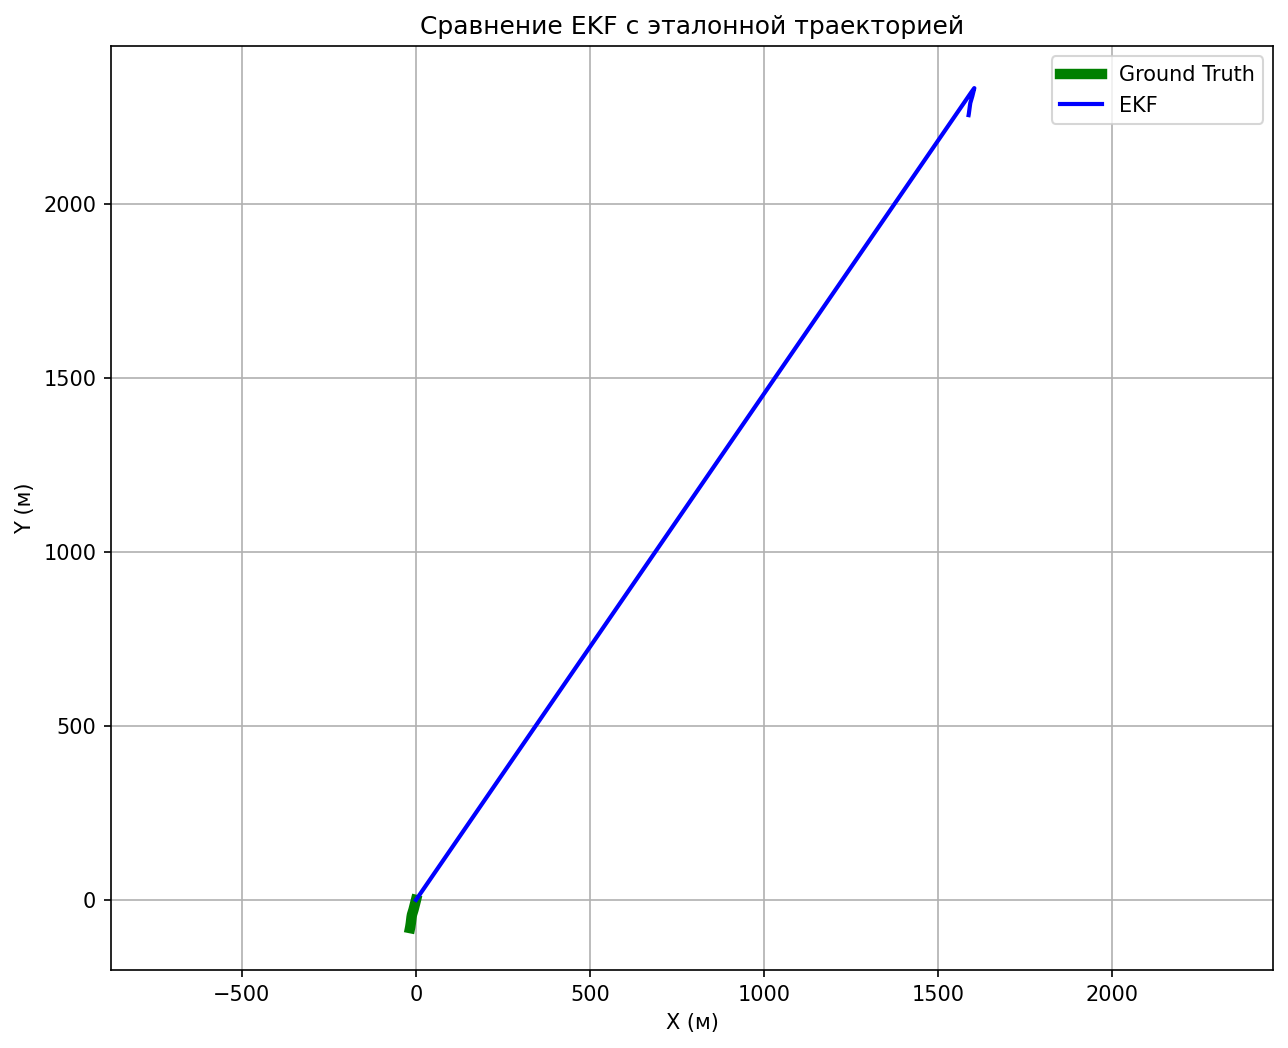
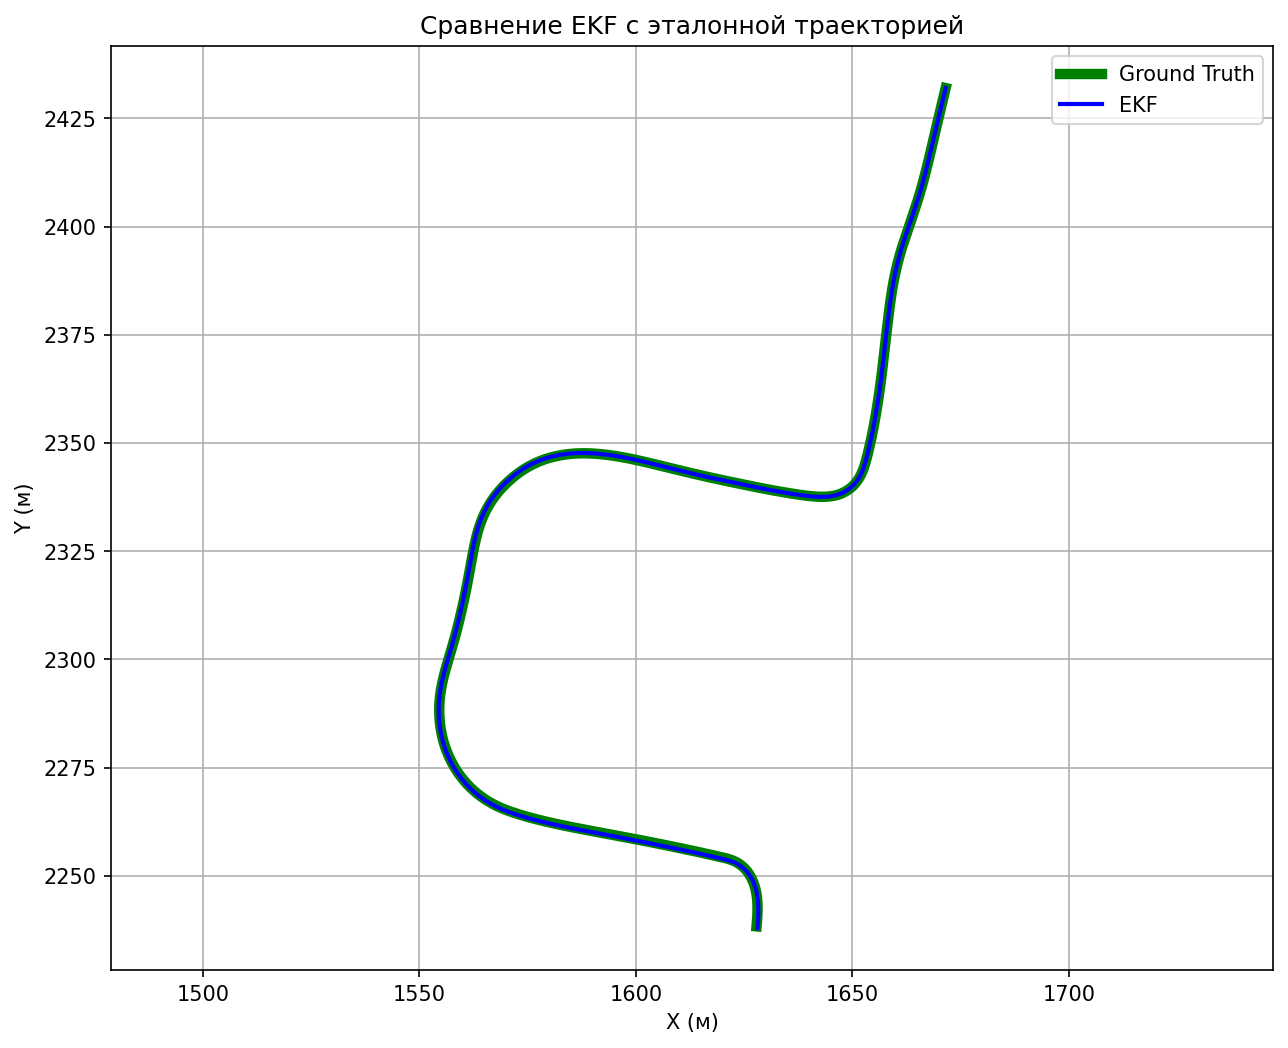
fix ekf; add bag messages sorting script

diff --git a/data/ford_data_adapter.py b/data/ford_data_adapter.py
@@ -12,22 +12,31 @@ def get_u(vx, vy, omega_z, dt):
 class FordDataAdapter:
     def __init__(self, bag_path: Path):
         self.bag_path = Path(bag_path)
-        self.typestore = get_typestore(Stores.LATEST)
+        self.typestore = get_typestore(Stores.ROS1_NOETIC)
         self.last_vx = None
         self.last_vy = None
         self.last_ts = None
 
     def __iter__(self):
         with Reader(self.bag_path) as reader:
+            v_topic = "/velocity_raw"
+            imu_topic = "/imu"
+            raw_pose_topic = "/pose_raw"
+            gt_pose_topic = "/pose_ground_truth"
+
+            wanted_topics = {v_topic, imu_topic, raw_pose_topic, gt_pose_topic}
+
             for connection, timestamp, data in reader.messages():
+                if connection.topic not in wanted_topics:
+                    continue
+
                 msg = self.typestore.deserialize_ros1(data, connection.msgtype)
                 
-                if connection.topic == '/velocity_raw':
+                if connection.topic == v_topic:
                     self.last_vx = msg.vector.x
                     self.last_vy = msg.vector.y
-                    self.last_ts = timestamp
                 
-                elif connection.topic == '/imu':
+                elif connection.topic == imu_topic:
                     omega_z = msg.angular_velocity.z
                     
                     if self.last_ts is not None and self.last_vx is not None:
@@ -37,8 +46,15 @@ class FordDataAdapter:
                     
                     self.last_ts = timestamp
                 
-                elif connection.topic == '/pose_ground_truth':
+                elif connection.topic == raw_pose_topic:
                     x = msg.pose.position.x
                     y = msg.pose.position.y
                     z = np.array([x, y, 0.0])
                     yield 'update', z, timestamp
+
+                elif connection.topic == gt_pose_topic:
+                    x = msg.pose.position.x
+                    y = msg.pose.position.y
+                    z = np.array([x, y, 0.0])
+                    yield 'ground_truth', z, timestamp
+

diff --git a/data/sort_bag.py b/data/sort_bag.py
@@ -1,0 +1,52 @@
+"""Re-sort a rosbag by timestamp, keeping only the specified topics."""
+
+from rosbags.rosbag1 import Reader, Writer
+from pathlib import Path
+import argparse
+
+
+def sort_bag(input_path: Path, output_path: Path, topics: set[str] | None = None):
+    with Reader(input_path) as reader:
+        conn_info = {}
+        messages = []
+        for connection, timestamp, data in reader.messages():
+            if topics and connection.topic not in topics:
+                continue
+            if connection.topic not in conn_info:
+                conn_info[connection.topic] = (
+                    connection.msgtype,
+                    connection.msgdef.data,
+                    connection.digest,
+                )
+            messages.append((connection.topic, timestamp, bytes(data)))
+
+        print(f"Collected {len(messages)} messages, sorting...")
+        messages.sort(key=lambda m: m[1])
+
+        print("Writing sorted bag...")
+        with Writer(output_path) as writer:
+            conn_map = {}
+            for topic, (msgtype, msgdef, digest) in conn_info.items():
+                conn_map[topic] = writer.add_connection(
+                    topic, msgtype, msgdef=msgdef, md5sum=digest
+                )
+
+            for topic, timestamp, data in messages:
+                writer.write(conn_map[topic], timestamp, data)
+
+    size_mb = output_path.stat().st_size / 1024 / 1024
+    print(f"Done! {output_path} ({size_mb:.1f} MB, {len(messages)} messages)")
+
+
+if __name__ == "__main__":
+    parser = argparse.ArgumentParser(description=__doc__)
+    parser.add_argument("input", type=Path, help="Input .bag file")
+    parser.add_argument("-o", "--output", type=Path, help="Output .bag file")
+    parser.add_argument(
+        "-t", "--topics", nargs="+", default=None,
+        help="Topics to keep (default: all)",
+    )
+    args = parser.parse_args()
+
+    output = args.output or args.input.with_stem(args.input.stem + "-sorted")
+    sort_bag(args.input, output, set(args.topics) if args.topics else None)

diff --git a/ekf/class_ekf.py b/ekf/class_ekf.py
@@ -29,3 +29,6 @@ class EKF:
         K = self.P @ H.T @ np.linalg.inv(S)
         self.x = self.x + K @ y
         self.P = (np.eye(3) - K @ H) @ self.P
+    
+    def set_pose(self, x):
+        self.x = x
